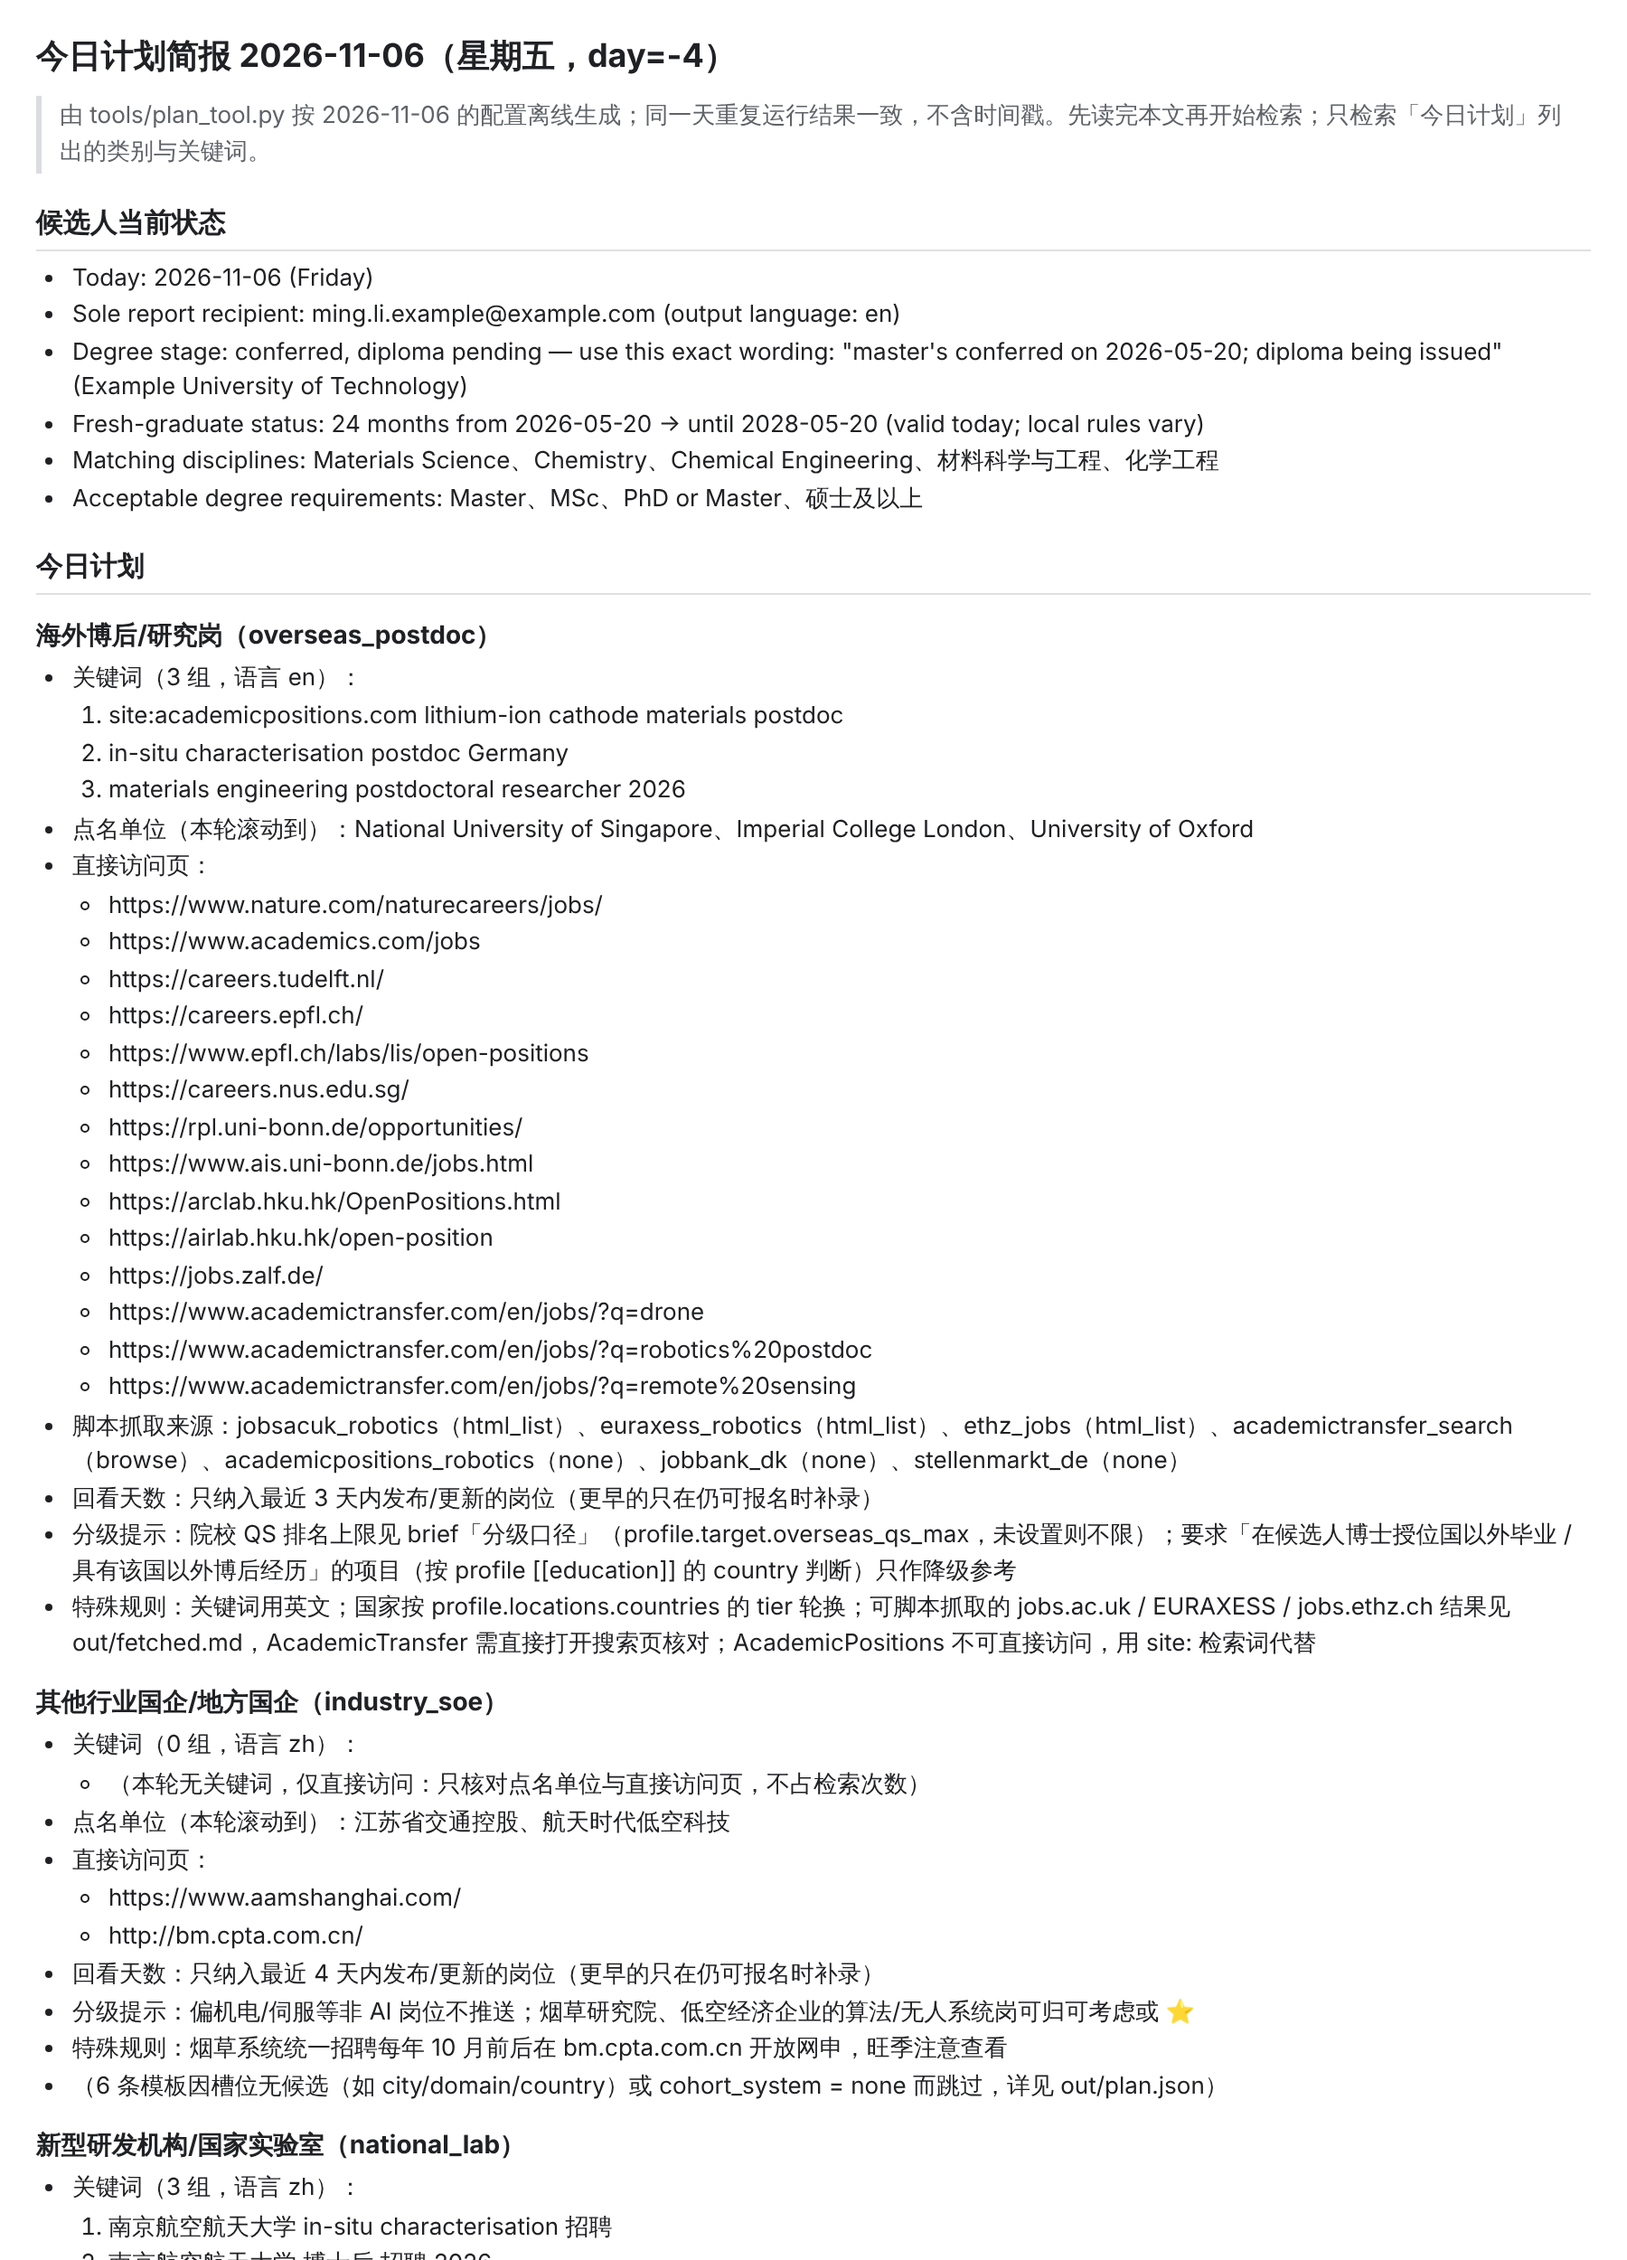
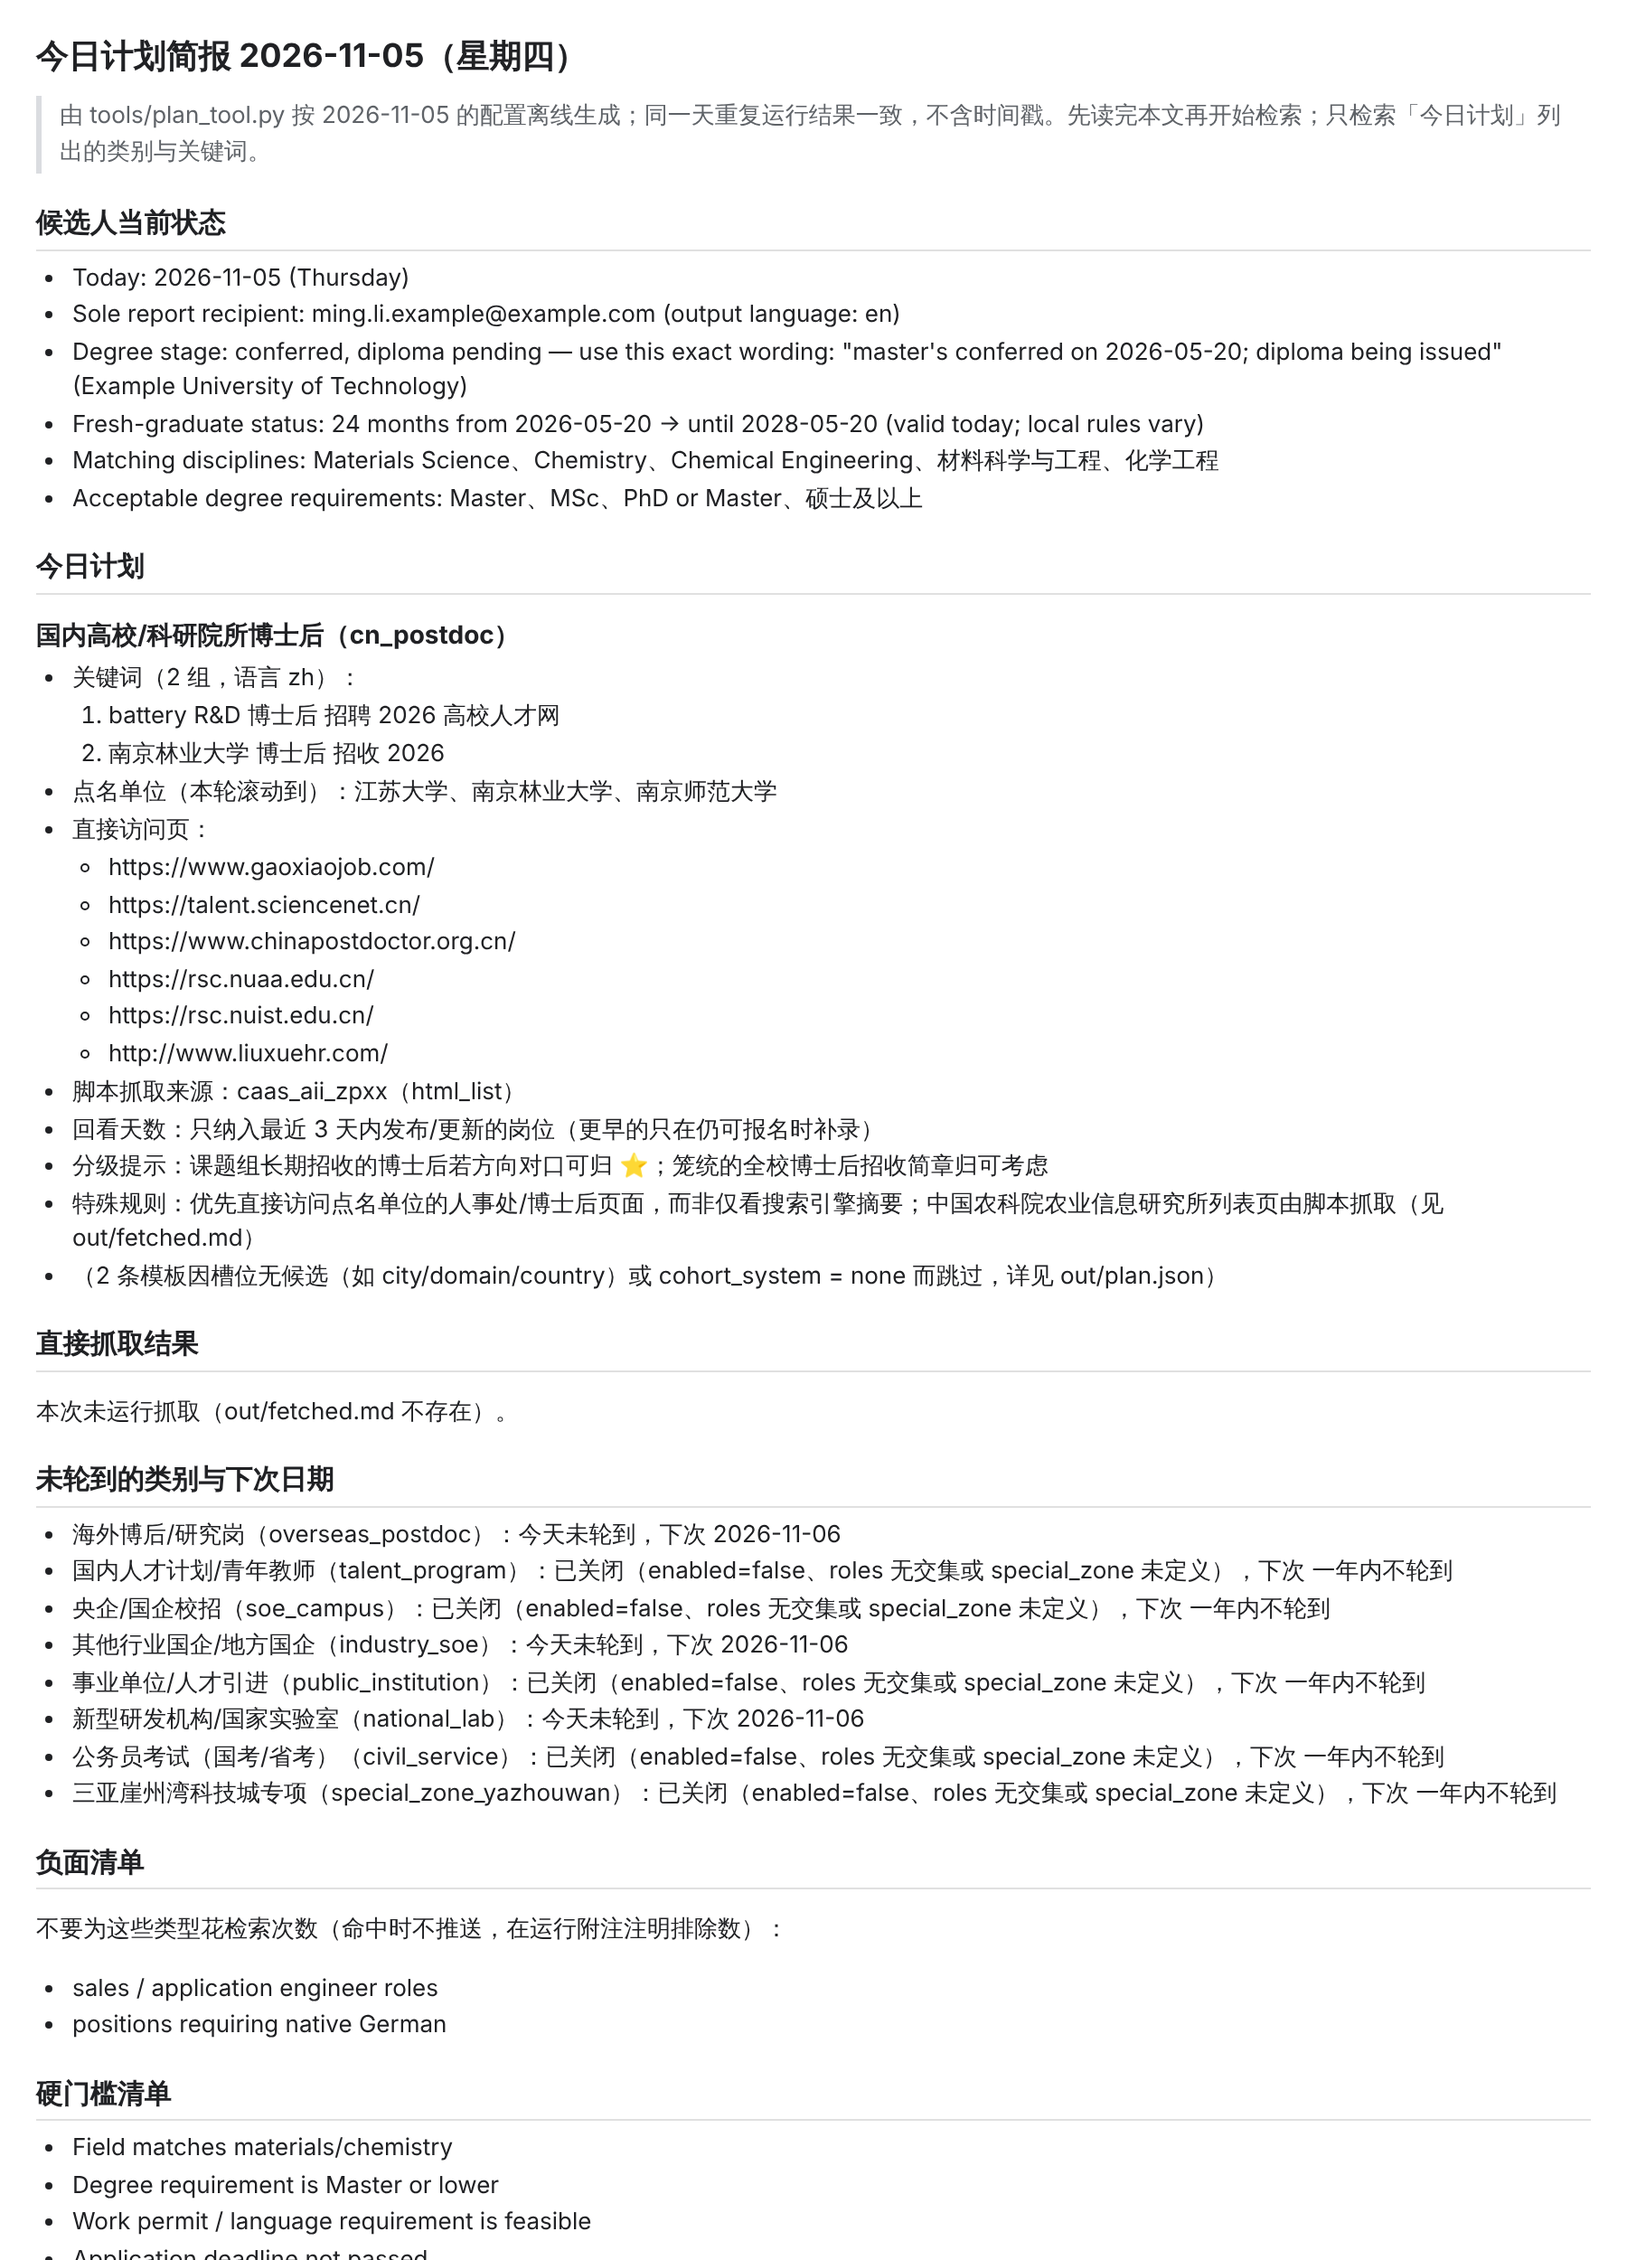
plan: drop day= from brief title, epoch moved into the past; regenerate screenshots for today

diff --git a/tools/plan_tool.py b/tools/plan_tool.py
@@ -447,7 +447,7 @@ def _count_lines(path: str) -> int:
 def render_brief(plan: dict) -> str:
     today = dt.date.fromisoformat(plan["today"])
     L: list[str] = []
-    L.append(f"# 今日计划简报 {plan['today']}（{pt.weekday_zh(today)}，day={plan['day']}）")
+    L.append(f"# 今日计划简报 {plan['today']}（{pt.weekday_zh(today)}）")
     L.append("")
     L.append(f"> {plan['generated_at_note']}。先读完本文再开始检索；只检索「今日计划」列出的类别与关键词。")
     L.append("")

diff --git a/README.zh.md b/README.zh.md
@@ -117,14 +117,14 @@ Routine 触发
 `python3 tools/plan_tool.py schedule --days 14 --today 2026-11-05` 的示例输出（真实配置）：
 
 ```
-两周日历（自 2026-11-05 起 14 天；epoch 2026-11-10；格式：类别id×关键词数，含固定检索）
-2026-11-05 星期四 day= -5 | 合计 14 | cn_postdoc×3, talent_program×2, soe_campus×3, public_institution×2, civil_service×4
-2026-11-06 星期五 day= -4 | 合计 15 | overseas_postdoc×3, soe_campus×3, industry_soe×1, national_lab×2, civil_service×3, special_zone_yazhouwan×3
-2026-11-07 星期六 day= -3 | 合计  8 | cn_postdoc×2, soe_campus×2, public_institution×1, civil_service×3
-2026-11-08 星期日 day= -2 | 合计 14 | overseas_postdoc×2, talent_program×1, soe_campus×2, national_lab×2, civil_service×3, special_zone_yazhouwan×4
-2026-11-09 星期一 day= -1 | 合计 14 | cn_postdoc×3, soe_campus×3, industry_soe×2, public_institution×2, civil_service×4
-2026-11-10 星期二 day=  0 | 合计 15 | overseas_postdoc×3, soe_campus×3, national_lab×3, civil_service×3, special_zone_yazhouwan×3
-2026-11-11 星期三 day=  1 | 合计 14 | cn_postdoc×3, talent_program×2, soe_campus×3, public_institution×2, civil_service×4
+两周日历（自 2026-11-05 起 14 天；epoch 2025-12-09；格式：类别id×关键词数，含固定检索）
+2026-11-05 星期四 day=331 | 合计 14 | cn_postdoc×3, talent_program×2, soe_campus×3, public_institution×2, civil_service×4
+2026-11-06 星期五 day=332 | 合计 15 | overseas_postdoc×3, soe_campus×3, industry_soe×1, national_lab×2, civil_service×3, special_zone_yazhouwan×3
+2026-11-07 星期六 day=333 | 合计  8 | cn_postdoc×2, soe_campus×2, public_institution×1, civil_service×3
+2026-11-08 星期日 day=334 | 合计 14 | overseas_postdoc×2, talent_program×1, soe_campus×2, national_lab×2, civil_service×3, special_zone_yazhouwan×4
+2026-11-09 星期一 day=335 | 合计 14 | cn_postdoc×3, soe_campus×3, industry_soe×2, public_institution×2, civil_service×4
+2026-11-10 星期二 day=336 | 合计 15 | overseas_postdoc×3, soe_campus×3, national_lab×3, civil_service×3, special_zone_yazhouwan×3
+2026-11-11 星期三 day=337 | 合计 14 | cn_postdoc×3, talent_program×2, soe_campus×3, public_institution×2, civil_service×4
 …
 ```
 
